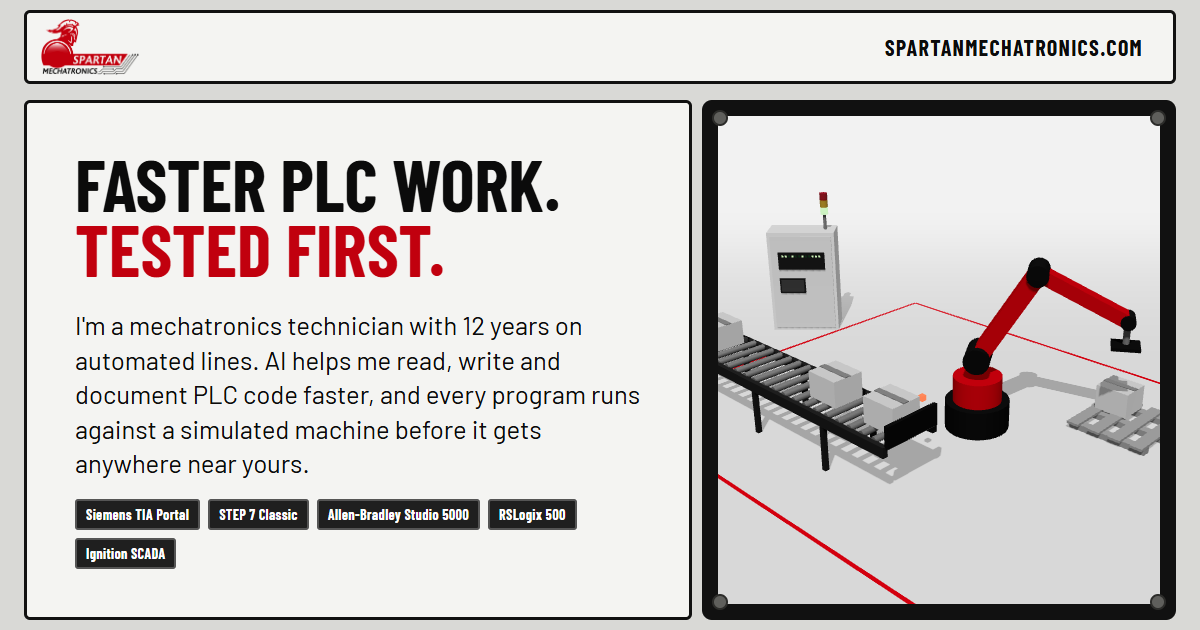
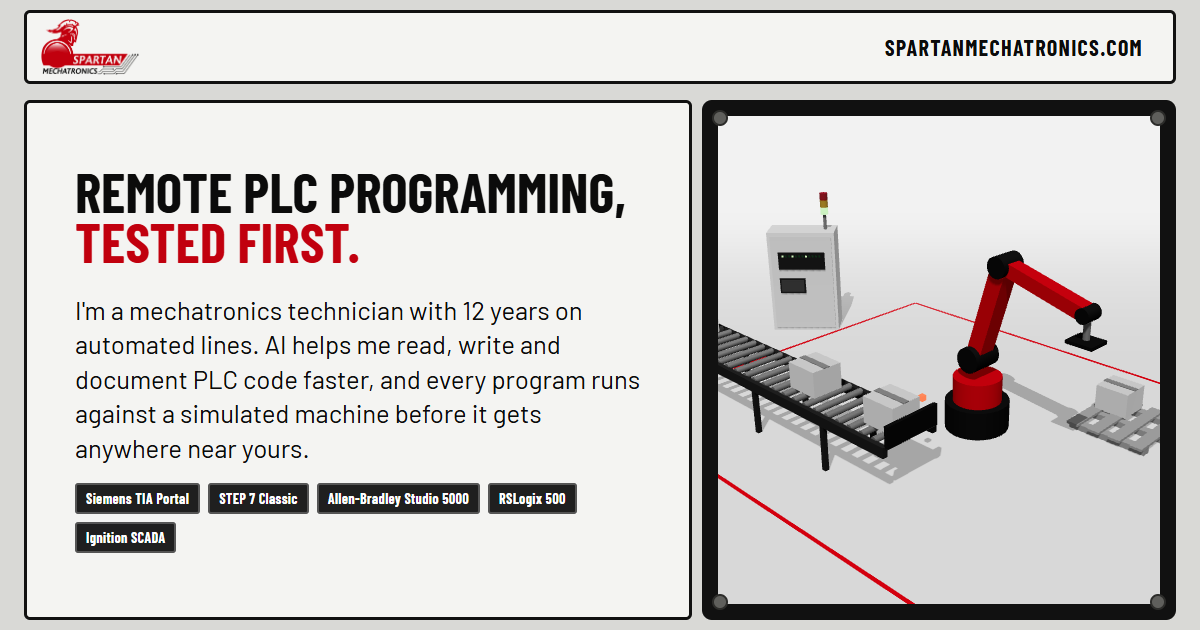
Headline with search term; share card updated

diff --git a/index.html b/index.html
@@ -16,7 +16,7 @@
 <meta property="og:image" content="https://spartanmechatronics.com/assets/og-image.png">
 <meta property="og:image:width" content="1200">
 <meta property="og:image:height" content="630">
-<meta property="og:image:alt" content="Spartan Mechatronics: a simulated palletizer cell in a control-panel window, with the line Faster PLC work. Tested first.">
+<meta property="og:image:alt" content="Spartan Mechatronics: a simulated palletizer cell in a control-panel window, with the line Remote PLC programming, tested first.">
 <meta name="twitter:card" content="summary_large_image">
 <meta name="twitter:title" content="Remote PLC programming, code review and troubleshooting">
 <meta name="twitter:description" content="Contract PLC work for integrators and plants, done faster with AI and tested on a simulated machine before it reaches yours. Siemens TIA Portal, STEP 7, Allen-Bradley, Ignition.">
@@ -111,7 +111,9 @@ p{margin:0;text-wrap:pretty}
 .hero{display:grid;grid-template-columns:repeat(12,1fr);gap:var(--gap);padding:14px var(--m) 0}
 .hero .lead{grid-column:1/8;background:var(--plate);border:3px solid var(--black);border-radius:6px;padding:var(--s-5);display:flex;flex-direction:column;justify-content:space-between;gap:30px;min-height:min(78svh,760px)}
 .hero .ident{display:flex;flex-wrap:wrap;gap:8px;align-items:center}
-.hero h1{font-size:var(--step-display);line-height:.9;letter-spacing:0}
+.hero .lead{container-type:inline-size}
+/* the first line is 9.94em wide in Barlow Condensed 700: 9.8cqi keeps it on one line at any width */
+.hero h1{font-size:min(var(--step-display),9.8cqi);line-height:.9;letter-spacing:0}
 .hero h1 .l{display:block;white-space:nowrap}
 .hero h1 .l2{color:var(--brand)}
 .hero .sub{font-size:var(--step-lead);line-height:1.35;max-width:40ch}
@@ -358,7 +360,6 @@ footer .big{display:block;width:min(100%,980px);height:auto}
   .door-bar nav{display:none}
   .door-bar .in{grid-template-columns:1fr auto}
   .door-bar .logo img{height:46px}
-  .hero h1 .l{white-space:normal}
   .strip{grid-template-columns:1fr}
   .steps{grid-template-columns:1fr}
   .sched .row{grid-template-columns:56px 1fr}
@@ -421,7 +422,7 @@ footer .big{display:block;width:min(100%,980px);height:auto}
 <main id="main">
 <div class="hero" id="top">
   <div class="lead" data-enter>
-    <h1><span class="l">Faster PLC work.</span><span class="l l2">Tested first.</span></h1>
+    <h1><span class="l">Remote PLC programming,</span><span class="l l2">tested first.</span></h1>
     <p class="sub">I'm a mechatronics technician with 12 years on automated lines. AI helps me read, write and document PLC code faster, and every program runs against a simulated machine before it gets anywhere near yours.</p>
     <div class="platforms hero-pl" aria-label="Platforms"><span class="tag">Siemens TIA Portal</span><span class="tag">STEP 7 Classic</span><span class="tag">Allen-Bradley Studio 5000</span><span class="tag">RSLogix 500</span><span class="tag">Ignition SCADA</span></div>
     <div class="acts">
